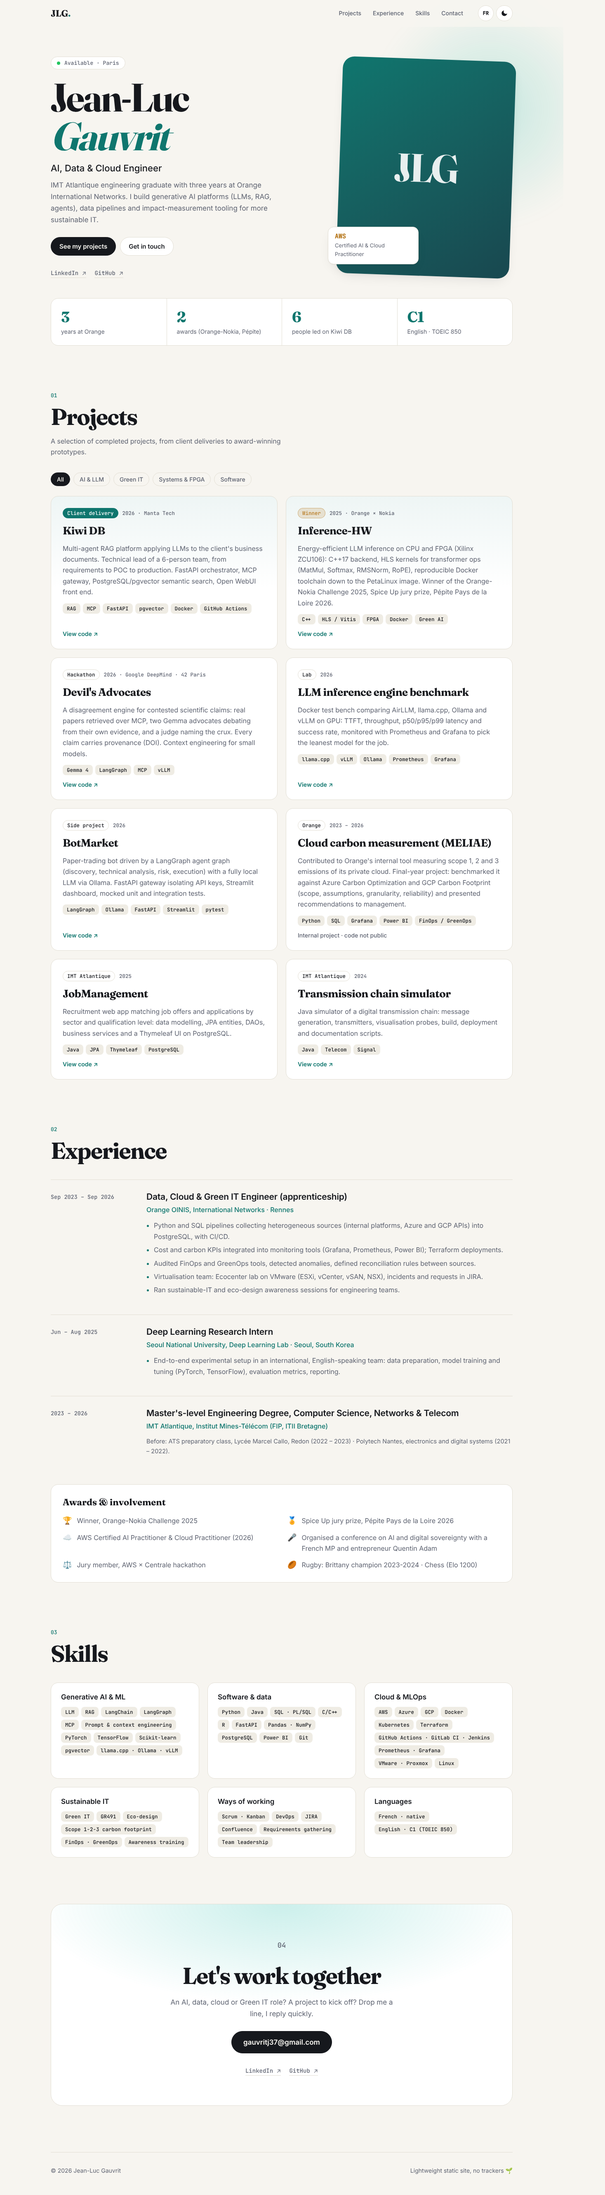
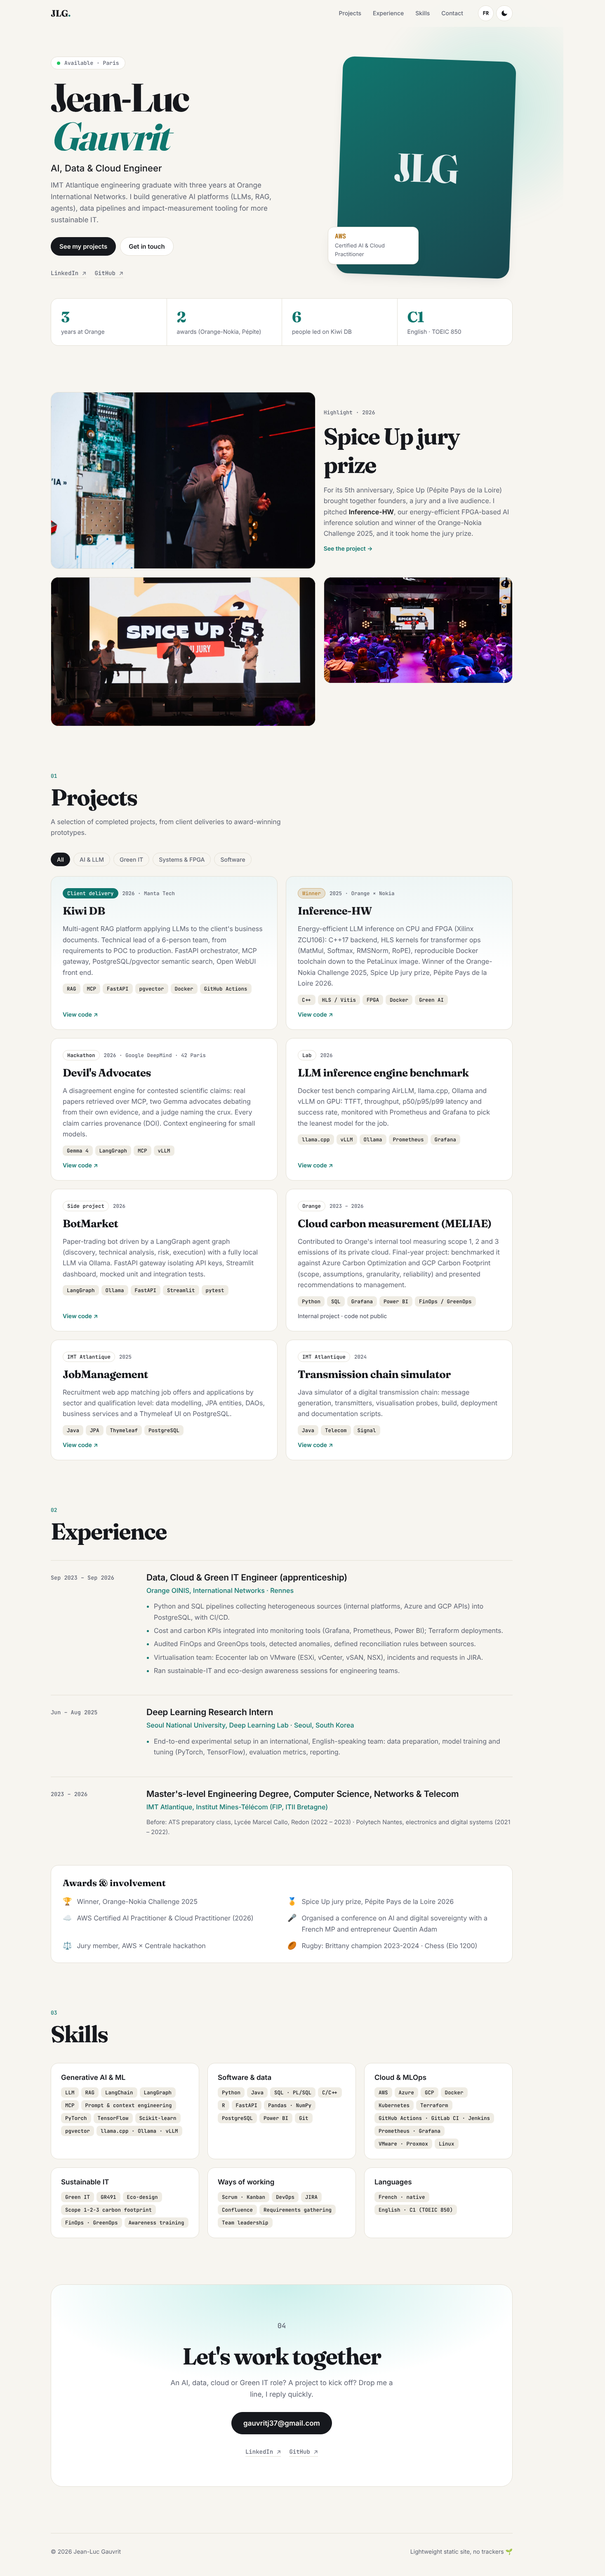
Add Spice Up highlight section and GitHub Pages deploy workflow
- Spice Up jury prize section with three compressed event photos
- Actions workflow: checks referenced assets exist, then deploys to Pages on push to main

Claude-Session: https://claude.ai/code/session_019oAXmAm96PmHpokHCfGmVS

diff --git a/index.html b/index.html
@@ -100,6 +100,30 @@
       <div class="stat"><b>C1</b><span lang="fr">anglais · TOEIC 850</span><span lang="en">English · TOEIC 850</span></div>
     </section>
 
+    <!-- À LA UNE : SPICE UP -->
+    <section class="section wrap highlight" id="spiceup" aria-labelledby="spiceup-title">
+      <div class="highlight__grid">
+        <figure class="highlight__main reveal">
+          <img src="assets/img/spiceup/pitch.jpg" alt="Pitch d'Inference-HW sur scène au Spice Up, devant une carte FPGA Xilinx projetée à l'écran" loading="lazy" width="1600" height="1070">
+        </figure>
+        <div class="highlight__text reveal">
+          <p class="kicker"><span lang="fr">À la une · 2026</span><span lang="en">Highlight · 2026</span></p>
+          <h2 id="spiceup-title"><span lang="fr">Prix du jury Spice Up</span><span lang="en">Spice Up jury prize</span></h2>
+          <p>
+            <span lang="fr">Pour ses 5 ans, Spice Up (Pépite Pays de la Loire) a réuni porteurs de projets, jury et public. J'y ai pitché <strong>Inference-HW</strong>, notre solution d'inférence IA sobre en énergie sur FPGA, déjà lauréate du Challenge Orange-Nokia 2025, et le jury lui a décerné son prix.</span>
+            <span lang="en">For its 5th anniversary, Spice Up (Pépite Pays de la Loire) brought together founders, a jury and a live audience. I pitched <strong>Inference-HW</strong>, our energy-efficient FPGA-based AI inference solution and winner of the Orange-Nokia Challenge 2025, and it took home the jury prize.</span>
+          </p>
+          <a class="project__link" href="#projets"><span lang="fr">Voir le projet</span><span lang="en">See the project</span> →</a>
+        </div>
+        <figure class="highlight__thumb reveal">
+          <img src="assets/img/spiceup/prix-jury.jpg" alt="Remise du prix du jury sur la scène du Spice Up" loading="lazy" width="1600" height="1070">
+        </figure>
+        <figure class="highlight__thumb reveal">
+          <img src="assets/img/spiceup/salle.jpg" alt="La salle comble pendant la cérémonie Spice Up" loading="lazy" width="1600" height="1070">
+        </figure>
+      </div>
+    </section>
+
     <!-- PROJETS -->
     <section class="section wrap" id="projets">
       <header class="section__head reveal">

diff --git a/assets/css/style.css b/assets/css/style.css
@@ -162,6 +162,25 @@ h1 em { font-style: italic; color: var(--accent); }
 h2 { font: 700 clamp(36px, 5vw, 56px) var(--serif); letter-spacing: -.03em; }
 .section__sub { color: var(--muted); max-width: 60ch; margin: 12px 0 0; }
 
+
+/* Highlight (Spice Up) */
+.highlight__grid {
+  display: grid; grid-template-columns: 1.4fr 1fr; grid-template-areas: "main text" "t1 t2"; gap: 20px;
+}
+.highlight__grid figure { margin: 0; border-radius: var(--radius); overflow: hidden; border: 1px solid var(--line); background: #000; }
+.highlight__grid img { width: 100%; height: 100%; object-fit: cover; transition: transform .6s; }
+.highlight__grid figure:hover img { transform: scale(1.03); }
+.highlight__main { grid-area: main; aspect-ratio: 3 / 2; }
+.highlight__text { grid-area: text; align-self: center; display: flex; flex-direction: column; gap: 14px; }
+.highlight__text p { color: var(--muted); margin: 0; }
+.highlight__text strong { color: var(--text); }
+.highlight__thumb { height: clamp(180px, 24vw, 280px); }
+.highlight__thumb:nth-of-type(2) { grid-area: t1; }
+.highlight__thumb:nth-of-type(3) { grid-area: t2; }
+@media (max-width: 900px) {
+  .highlight__grid { grid-template-columns: 1fr 1fr; grid-template-areas: "text text" "main main" "t1 t2"; }
+}
+
 /* Filters */
 .filters { display: flex; flex-wrap: wrap; gap: 8px; margin-bottom: 24px; }
 .chip {
